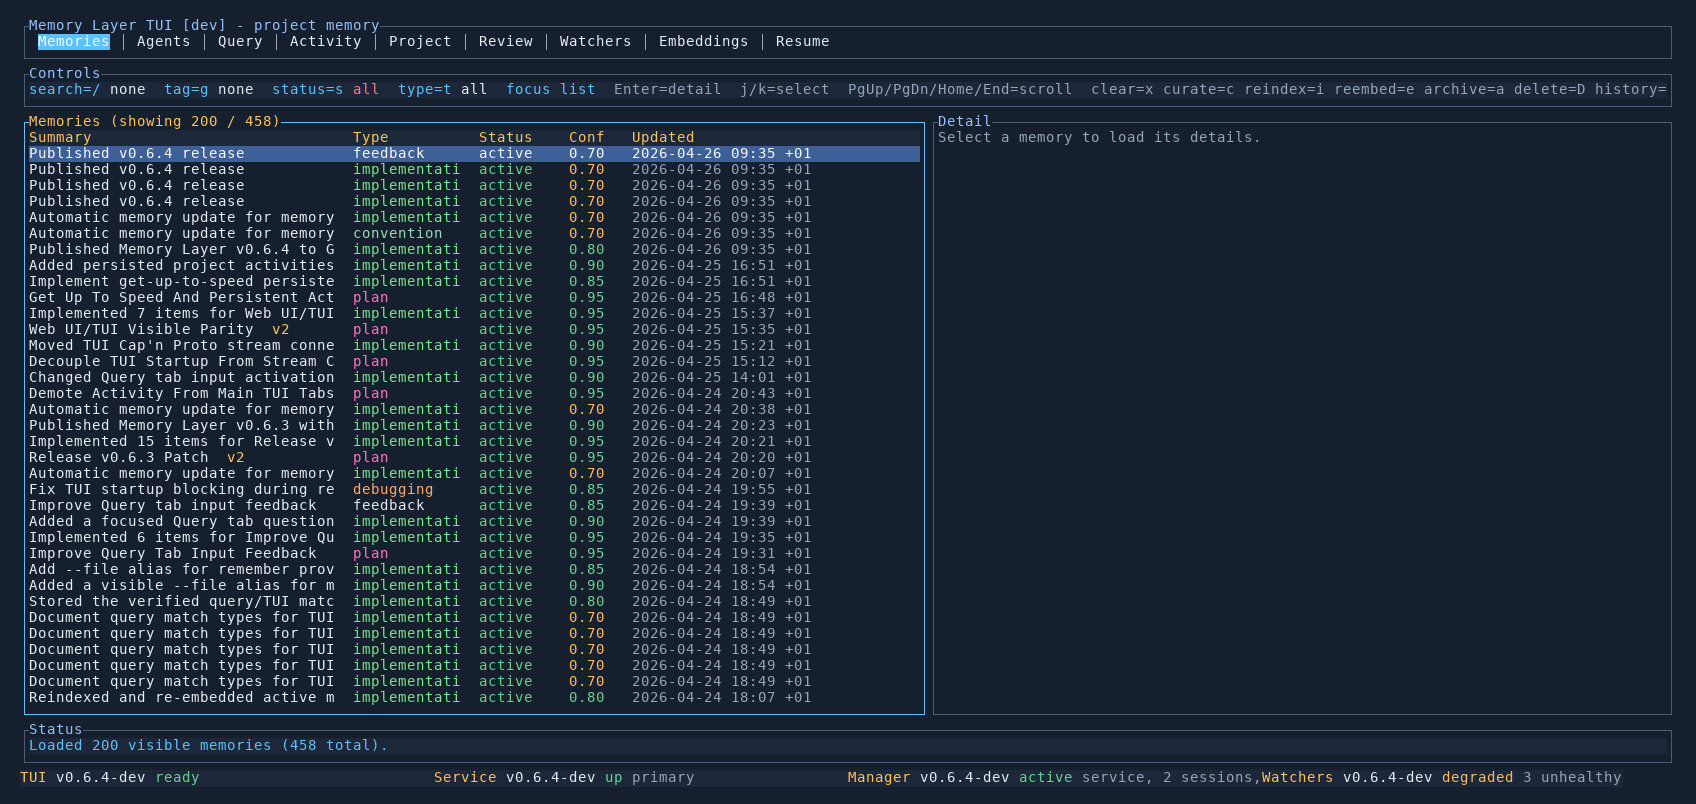
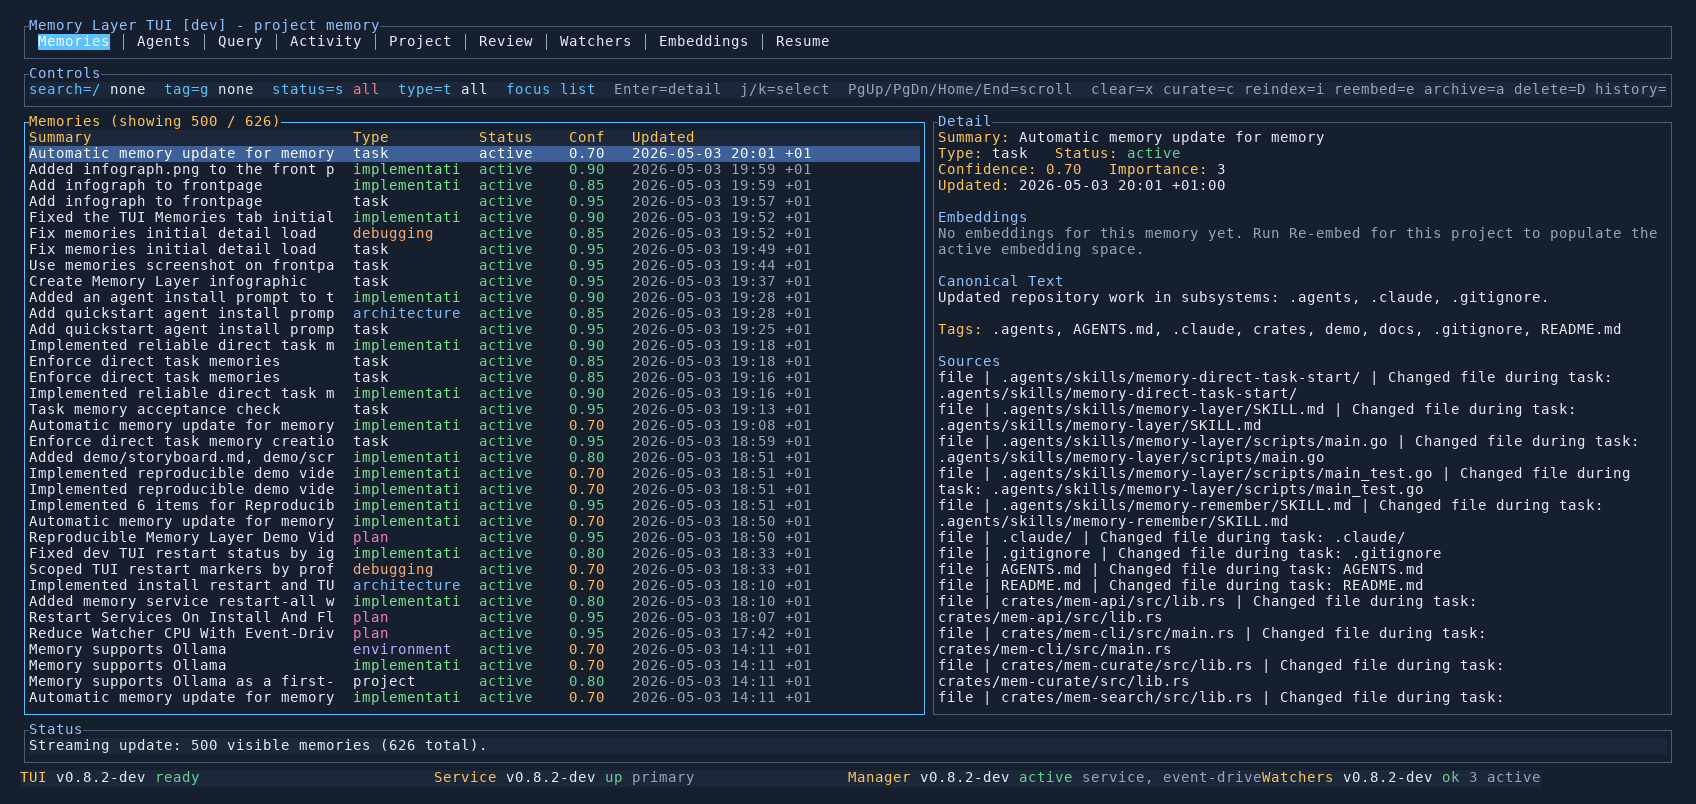
Docs: refresh memories frontpage visuals 3VI-583

diff --git a/README.md b/README.md
@@ -6,8 +6,6 @@ It captures what happened, curates what matters, stores it in PostgreSQL with pg
 
 ![Memory Layer memories tab](docs/img/tui/memories-tab.png)
 
-![How Memory Layer turns project work into cited context](docs/img/infograph.png)
-
 ## Measured Impact
 
 Memory Layer is built to be evaluated, not just demoed. Its eval harness runs
@@ -43,7 +41,7 @@ Read the [Beginner Guide To Evaluations](docs/user/evaluation-guide.md), the
 - **Repeatable evaluation:** run paired no-memory vs full-memory ablations with artifacted results, gates, token accounting, and concrete retrieval-quality metrics.
 - **Human review loop:** curation can queue replacement proposals so important memory changes can be approved before older knowledge is superseded.
 
-![Memory Layer agents dashboard](docs/img/tui/agents-tab.png)
+![How Memory Layer turns project work into cited context](docs/img/infograph.png)
 
 ## Table of Contents
 